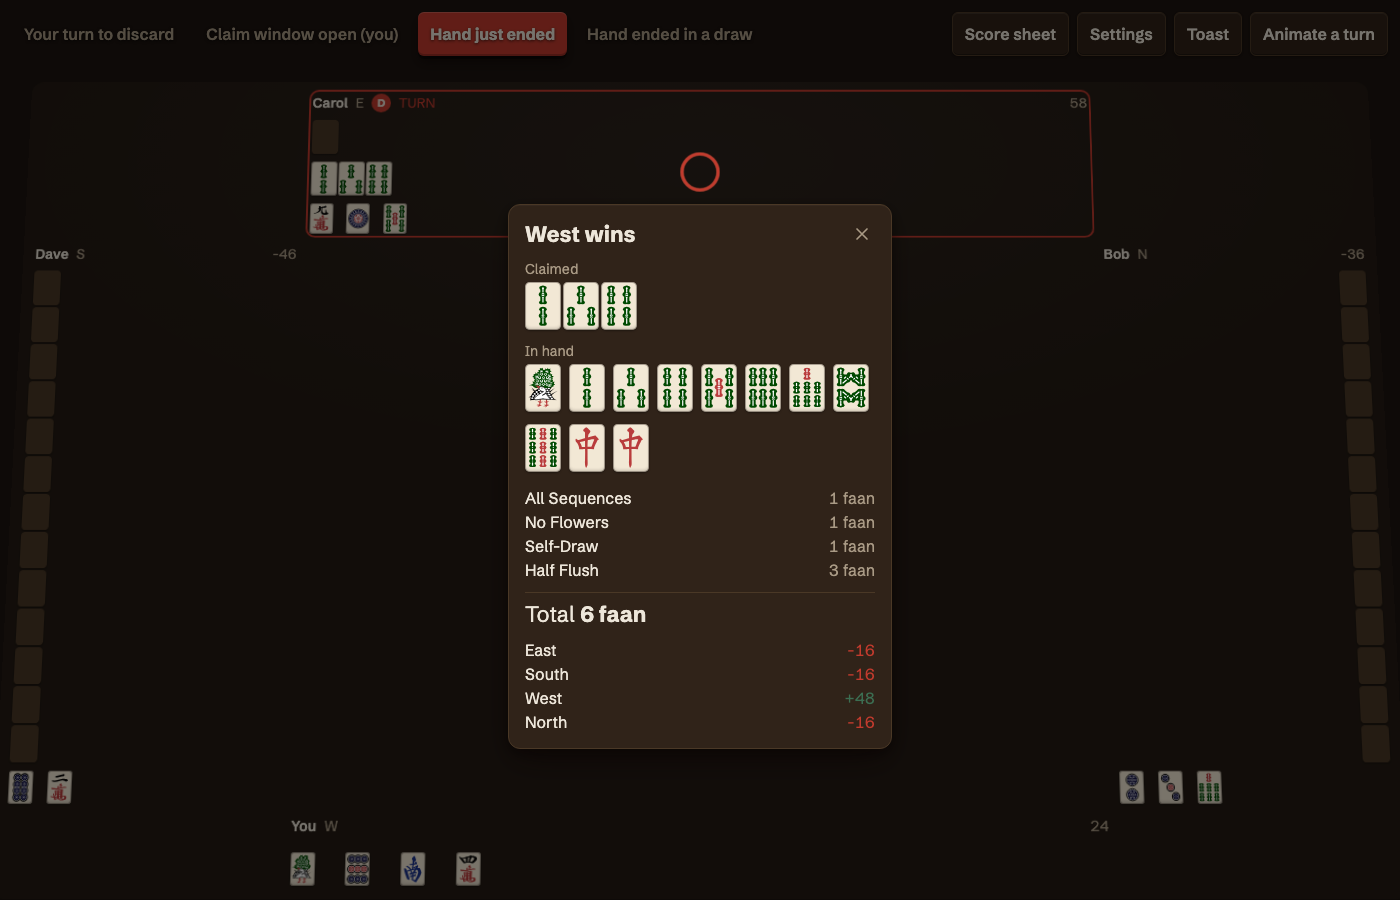
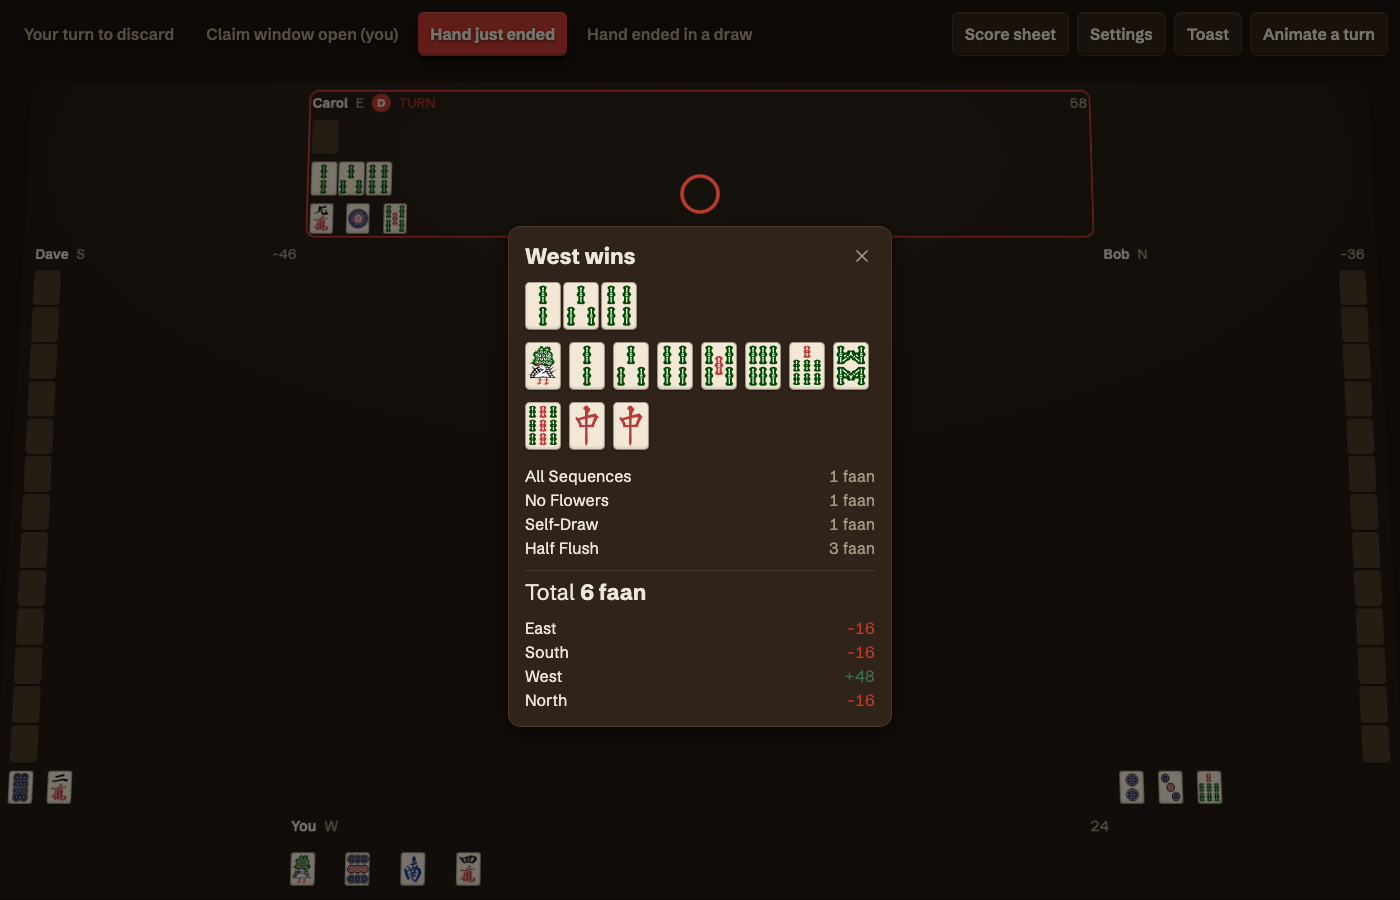
fix(engine): merge claimed winning tile into winner's hand
A win claimed off a discard or kong-rob scored with the tile folded
in locally but never merged it into state.seats[winner].concealed,
so HandEndWire.winning_hand (and the win screen built on it) showed
the winner's hand short exactly the winning tile. Flip the pinned
gap test to assert full correctness and drop the now-stale "known
gap" notes in views.py/docs/02-protocol.md.

Also drop the "Claimed"/"In hand" text labels in FaanBreakdown --
the row grouping alone reads clearly enough.

Changed region(s): [[0.3379, 0.3733, 0.645, 0.84], [0.3379, 0.1556, 0.645, 0.3111], [0.5836, 0.5289, 0.6143, 0.6533]]

diff --git a/web/src/lib/ui/FaanBreakdown.svelte b/web/src/lib/ui/FaanBreakdown.svelte
@@ -87,29 +87,23 @@
 	{#if sortedMelds.length > 0 || sortedConcealedHand.length > 0}
 		<div class="winning-hand">
 			{#if sortedMelds.length > 0}
-				<div class="tile-group">
-					<span class="group-label">Claimed</span>
-					<div class="melds">
-						{#each sortedMelds as meld, mi (mi)}
-							<div class="meld">
-								{#each meld.tiles as code, ti (`${mi}:${ti}:${code}`)}
-									<div class="tile">
-										<TileFace code={meld.kind === 'concealed_kong' ? null : code} />
-									</div>
-								{/each}
-							</div>
-						{/each}
-					</div>
+				<div class="melds">
+					{#each sortedMelds as meld, mi (mi)}
+						<div class="meld">
+							{#each meld.tiles as code, ti (`${mi}:${ti}:${code}`)}
+								<div class="tile">
+									<TileFace code={meld.kind === 'concealed_kong' ? null : code} />
+								</div>
+							{/each}
+						</div>
+					{/each}
 				</div>
 			{/if}
 			{#if sortedConcealedHand.length > 0}
-				<div class="tile-group">
-					{#if sortedMelds.length > 0}<span class="group-label">In hand</span>{/if}
-					<div class="concealed-hand">
-						{#each sortedConcealedHand as code, index (`${index}:${code}`)}
-							<div class="tile"><TileFace {code} /></div>
-						{/each}
-					</div>
+				<div class="concealed-hand">
+					{#each sortedConcealedHand as code, index (`${index}:${code}`)}
+						<div class="tile"><TileFace {code} /></div>
+					{/each}
 				</div>
 			{/if}
 		</div>
@@ -167,17 +161,6 @@
 		display: flex;
 		flex-direction: column;
 		gap: var(--space-2);
-	}
-
-	.tile-group {
-		display: flex;
-		flex-direction: column;
-		gap: var(--space-1);
-	}
-
-	.group-label {
-		font-size: var(--font-size-sm);
-		color: var(--color-text-muted);
 	}
 
 	.melds,

diff --git a/web/src/lib/ui/FaanBreakdown.spec.ts b/web/src/lib/ui/FaanBreakdown.spec.ts
@@ -89,19 +89,16 @@ describe('FaanBreakdown', () => {
 		});
 		expect(body).toMatch(/class="melds\b/);
 		expect(body).toMatch(/class="concealed-hand\b/);
-		expect(body).toContain('Claimed');
-		expect(body).toContain('In hand');
 		const order = [...body.matchAll(/alt="([^"]+) tile"/g)].map((m) => m[1]);
 		expect(order).toEqual(['9s', '9s', '9s', '1m', '2m', '3m']);
 	});
 
-	it('omits the claimed/in-hand labels when there are no claimed melds', () => {
+	it('renders no meld group when there are no claimed melds', () => {
 		const { body } = render(FaanBreakdown, {
 			props: { winner: 2, winningHand: ['1m', '2m', '3m'], patterns, totalFaan: 5, payments }
 		});
 		expect(body).not.toMatch(/class="melds\b/);
-		expect(body).not.toContain('Claimed');
-		expect(body).not.toContain('In hand');
+		expect(body).toMatch(/class="concealed-hand\b/);
 	});
 
 	it('renders a concealed_kong meld as backs, matching the in-play convention', () => {

diff --git a/server/tests/test_redaction.py b/server/tests/test_redaction.py
@@ -181,12 +181,17 @@ def _self_draw_win_sample() -> tuple[GameState, Event]:
 
 
 def _claimed_win_sample() -> tuple[GameState, Event]:
-    """Winner (seat 2) took the win off seat 0's discard. `state.seats[2].concealed` does NOT
-    include the winning tile -- `engine._apply_claim_response` never merges it back in for a
-    claimed win, only the scoring context sees it (HandEndWire's docstring, app/views.py). This
-    sample exists specifically to pin that known, documented gap in the redacted output, not to
-    assert it's correct."""
+    """Winner (seat 2) took the win off seat 0's discard. `state.seats[2].concealed` is the
+    real post-win shape `engine._apply_claim_response` now produces: the claimed tile folded
+    in, 14 tiles total -- not just the 13 seat 2 held while waiting on the claim."""
     base = new_game(_RULESET, 90003)
+    winner_state = base.seats[2]
+    claimed_tile = TileId(0) if TileId(0) not in winner_state.concealed else TileId(4)
+    winner_state = dataclasses.replace(
+        winner_state, concealed=(*winner_state.concealed, claimed_tile)
+    )
+    seats = (base.seats[0], base.seats[1], winner_state, base.seats[3])
+    base = dataclasses.replace(base, seats=seats)
     result = HandResult(
         outcome=HandOutcome.WIN,
         winner=2,
@@ -466,17 +471,19 @@ def test_seat_view_own_hand_matches_state() -> None:
     assert seat_view(state, None).own_hand == ()
 
 
-def test_hand_end_known_gap_claimed_win_misses_winning_tile() -> None:
-    """Pins the documented gap (HandEndWire's docstring, app/views.py): a claimed win's
-    `winning_hand` reveal is short exactly the winning tile, because `engine.py` never merges
-    it back into `state.seats[winner].concealed`. If `engine.py` is fixed later, this test
-    should start failing and can be flipped to assert full correctness."""
+def test_hand_end_reveals_full_winning_hand_for_claimed_win() -> None:
+    """A claimed win's `winning_hand` reveal includes the claimed tile -- 14 tiles, not the 13
+    the winner held while waiting on the claim (`engine._apply_claim_response` merges it into
+    `state.seats[winner].concealed` before scoring; see `test_engine.py`'s
+    `test_claim_win_off_discard_merges_winning_tile_into_concealed` for the engine-level pin)."""
     state, event = _claimed_win_sample()
     assert isinstance(event, HandEnded)
     assert event.winner is not None
     wire = _build_event_wire(state, event.winner, event)
     assert isinstance(wire, HandEndWire)
     assert wire.winning_hand == tuple(state.seats[event.winner].concealed)
+    assert wire.winning_hand is not None
+    assert len(wire.winning_hand) == 14
 
 
 def test_walker_rejects_unannotated_field() -> None:

diff --git a/server/mahjong_core/engine.py b/server/mahjong_core/engine.py
@@ -625,12 +625,19 @@ def _apply_claim_response(
     if isinstance(won_action, ClaimWin):
         win_type = WinType.KONG_ROB if window.kind == ClaimKind.KONG_ROB else WinType.DISCARD
         winner_state = state.seats[winner]
+        # fold the claimed tile into the winner's concealed hand before scoring, not just into
+        # the tuple passed below -- state.seats[winner].concealed feeds HandEndWire.winning_hand
+        # (app/views.py) and used to stay short exactly this tile for a claimed win, since only
+        # the local tuple ever saw it (docs/02-protocol.md §3's now-fixed "known gap").
+        concealed_tiles = (*winner_state.concealed, window.tile)
+        winner_state = dataclasses.replace(winner_state, concealed=concealed_tiles)
+        state = dataclasses.replace(state, seats=_with_seat(state.seats, winner, winner_state))
         more_state, more_events = _end_win(
             state,
             winner=winner,
             win_type=win_type,
             discarder=window.source_seat,
-            concealed_tiles=(*winner_state.concealed, window.tile),
+            concealed_tiles=concealed_tiles,
             melds=winner_state.melds,
         )
         return more_state, events + more_events
@@ -758,9 +765,10 @@ def _end_win(
     melds: tuple[Meld, ...],
 ) -> tuple[GameState, list[Event]]:
     """Score a normal (non-instant-win) win -- `concealed_tiles`/`melds` are the winner's hand
-    at the moment of the win, including the winning tile even when it isn't yet reflected in
-    `state.seats[winner].concealed` (a claimed discard/kong-rob tile isn't merged into the
-    winner's hand before this runs -- see `reduce()`/`_apply_claim_response`'s call sites)."""
+    at the moment of the win, including the winning tile. Passed explicitly rather than read
+    back off `state` because the self-draw call site (`reduce()`) never mutates `state` at all;
+    the claimed-win call site (`_apply_claim_response`) does fold the tile into
+    `state.seats[winner].concealed` before calling this, so the two stay consistent."""
     ctx = build_scoring_context(
         state,
         winner,

diff --git a/server/tests/test_engine.py b/server/tests/test_engine.py
@@ -512,6 +512,25 @@ def test_claim_win_off_discard_scores_and_pays_real_faan() -> None:
     assert any(isinstance(e, HandEnded) for e in events)
 
 
+def test_claim_win_off_discard_merges_winning_tile_into_concealed() -> None:
+    """`state.seats[winner].concealed` must end up 14 tiles including the claimed discard, not
+    just the 13 it held while waiting -- app/views.py's `HandEndWire.winning_hand` reads this
+    field directly, so a claimed win used to reveal a hand short exactly this tile."""
+    state = _state(phase=Phase.AWAIT_ACTION, turn=1, total_discards=1)
+    state = _with_seat(state, 1, concealed=(*_JUNK_HAND, _MAN_2[1]), flowers=())
+    state = _all_junk(state, except_seat=1)
+    state = _with_seat(state, 3, concealed=_claimable_standard_hand(), flowers=())
+
+    state, _ = reduce(state, Discard(tile_id=_MAN_2[1]))
+    win_action = next(a for a in legal_actions(state, 3) if isinstance(a, ClaimWin))
+    state, _ = reduce(state, win_action)
+
+    assert state.phase == Phase.HAND_OVER
+    assert len(state.seats[3].concealed) == 14
+    assert _MAN_2[1] in state.seats[3].concealed
+    assert sorted(state.seats[3].concealed) == sorted((*_claimable_standard_hand(), _MAN_2[1]))
+
+
 def test_claim_win_gated_by_min_faan_even_when_window_opens_for_another_seat() -> None:
     """The engine-level half of the min_faan gate (`_can_win_with`/`_discard_claim_offers`,
     distinct from `actions.can_declare_win`'s own-turn path -- see test_actions.py's

diff --git a/server/app/views.py b/server/app/views.py
@@ -320,16 +320,9 @@ class HandEndWire:
     """`winning_hand` is `HAND_END`-gated, not owner-gated -- entitled to *every* recipient
     once `revealed` is true, per 00-architecture.md §5's "tile identity allowed only once that
     hand has reached HAND_END". Sourced from `state.seats[winner].concealed` at the moment the
-    hand ended.
-
-    **Known gap, not fixed here:** for a win claimed off another seat's discard/kong (as
-    opposed to a self-draw), `engine._apply_claim_response` scores the win with the claimed
-    tile folded in locally but never merges it back into `state.seats[winner].concealed` --
-    only the scoring context sees it. So `winning_hand` is complete for `SELF_DRAW`/`FLOWERS`
-    wins and short exactly the winning tile for `DISCARD`/`KONG_ROB` wins. Fixing it means
-    touching `engine.py`'s win path (mahjong_core, M1/M2-owned), out of this sub-task's scope;
-    tracked in docs/02-protocol.md §3 instead of silently shipped wrong.
-    """
+    hand ended, which `engine._apply_claim_response` folds the claimed tile into before scoring
+    a `DISCARD`/`KONG_ROB` win -- so this is complete (winning tile included) for every win
+    type, not just `SELF_DRAW`/`FLOWERS`."""
 
     t: Literal["hand_end"] = field(metadata=_entitled(Entitlement.PUBLIC))
     hand_no: int = field(metadata=_entitled(Entitlement.PUBLIC))

diff --git a/docs/02-protocol.md b/docs/02-protocol.md
@@ -126,7 +126,7 @@ Payload shapes below match `server/app/protocol.py` (§6) exactly.
 | `meld` | `{seat, meld_kind, tiles, from_seat?}` | except `concealed_kong`, which has a redacted per-seat form: `{seat, meld_kind:"concealed_kong", tiles?, count?}` (see Redaction below) |
 | `kong_replace` | `{seat, tile_id?}` | |
 | `turn` | `{seat, phase, deadline_ts, legal?: [...]}` | `legal` unicast to the acting seat. No backing `Event` (same synthesis note); `deadline_ts` is a real, enforced `TimerHeap` entry (00-architecture.md §8 "Turn timeout", the turn-timeout sub-task) — on expiry the room tsumogiris the drawn tile (or discards the lowest-`tile_id` concealed tile after a claimed pung/chow with nothing drawn) and auto-passes any pending claims (structurally never any, in `AWAIT_ACTION`), same enforcement the claim-window deadline (`claim_offer.deadline_ts` above) already had |
-| `hand_end` | `{hand_no, outcome, winner?, win_type?, discarder?, faan?, faan_breakdown?, points?, payments?, revealed, winning_hand?, deadline_ts}` | `outcome` is `win`\|`exhaustive_draw`. `winning_hand`/faan/points/payments are `null` until `revealed` (self-draw/flowers immediately, a claimed win only once `HAND_OVER`); see the known reveal gap under Redaction below. `deadline_ts` is the hand-end hold's deadline ([00-architecture.md §3](00-architecture.md) "Hand-end hold") — the same value on every seat's stream, held open until all four `hand_end_ack` or this elapses |
+| `hand_end` | `{hand_no, outcome, winner?, win_type?, discarder?, faan?, faan_breakdown?, points?, payments?, revealed, winning_hand?, deadline_ts}` | `outcome` is `win`\|`exhaustive_draw`. `winning_hand`/faan/points/payments are `null` until `revealed` (self-draw/flowers immediately, a claimed win only once `HAND_OVER`). `deadline_ts` is the hand-end hold's deadline ([00-architecture.md §3](00-architecture.md) "Hand-end hold") — the same value on every seat's stream, held open until all four `hand_end_ack` or this elapses |
 | `score` | `{totals: {seat: n}}` | broadcast alongside `hand_end` (absolute post-payment totals, not a delta) — no backing `Event` of its own |
 | `game_end` | `{hand_no, scores}` | `hand_no` is the last hand actually played; `scores` are final absolute per-seat totals |
 | `seat_state` | `{seat, status: connected\|disconnected\|autoplay\|bot, name?}` | `connected`/`disconnected`/`autoplay` transitions are real as of M3 sub-task 6 (`app/room.py`'s `mark_disconnected`/`reconnect`/the disconnect-grace timer); `bot` is unused — every seat here started as a human `join`, so there's no seat that was *never* human to label `bot` instead of `autoplay`. `empty` (`state_sync`/`hand_start` above) never appears here either — a seat only ever gets a `seat_state` frame once it's bound (`join`'s own broadcast is what announces the empty→`connected` transition live to every already-bound seat), and nothing ever unbinds a seat afterward. `name` (M5) is this seat's resolved guest display name, carried on every `seat_state` broadcast for that seat, not just its first |
@@ -189,17 +189,6 @@ contain no tile identity that seat is not entitled to.
 Non-owning seats learn the tile identity only via `hand_end.hands` if the hand goes to showdown.
 All other `kind`s (`chow`, `pung`, `added_kong`) are fully public: full `tiles` to everyone, no
 redaction.
-
-**Known gap: `hand_end`'s winning-tile reveal is incomplete for a claimed win.** For a
-self-draw (or the flower-instant-win variant), the winner's revealed hand is exactly
-`state.seats[winner].concealed` and that's complete. For a win claimed off another seat's
-discard or kong, `engine._apply_claim_response` scores the win with the claimed tile folded in
-locally but never merges it back into `state.seats[winner].concealed` — only the scoring
-context sees it — so today's reveal is short exactly that one tile. Fixing it means touching
-`engine.py`'s win path (`mahjong_core`, M1/M2-owned); tracked here rather than fixed in the
-redaction sub-task that found it (`server/app/views.py`'s `HandEndWire` docstring carries the
-same note, and `tests/test_redaction.py::test_hand_end_known_gap_claimed_win_misses_winning_tile`
-pins current behavior so a future engine fix is noticed, not silently re-broken).
 
 **`discard.pool_index` isn't implemented by `redact_event` yet.** It isn't derivable from the
 `state` `redact_event(state, seat, event)` receives in general: if the discard is claimed later
